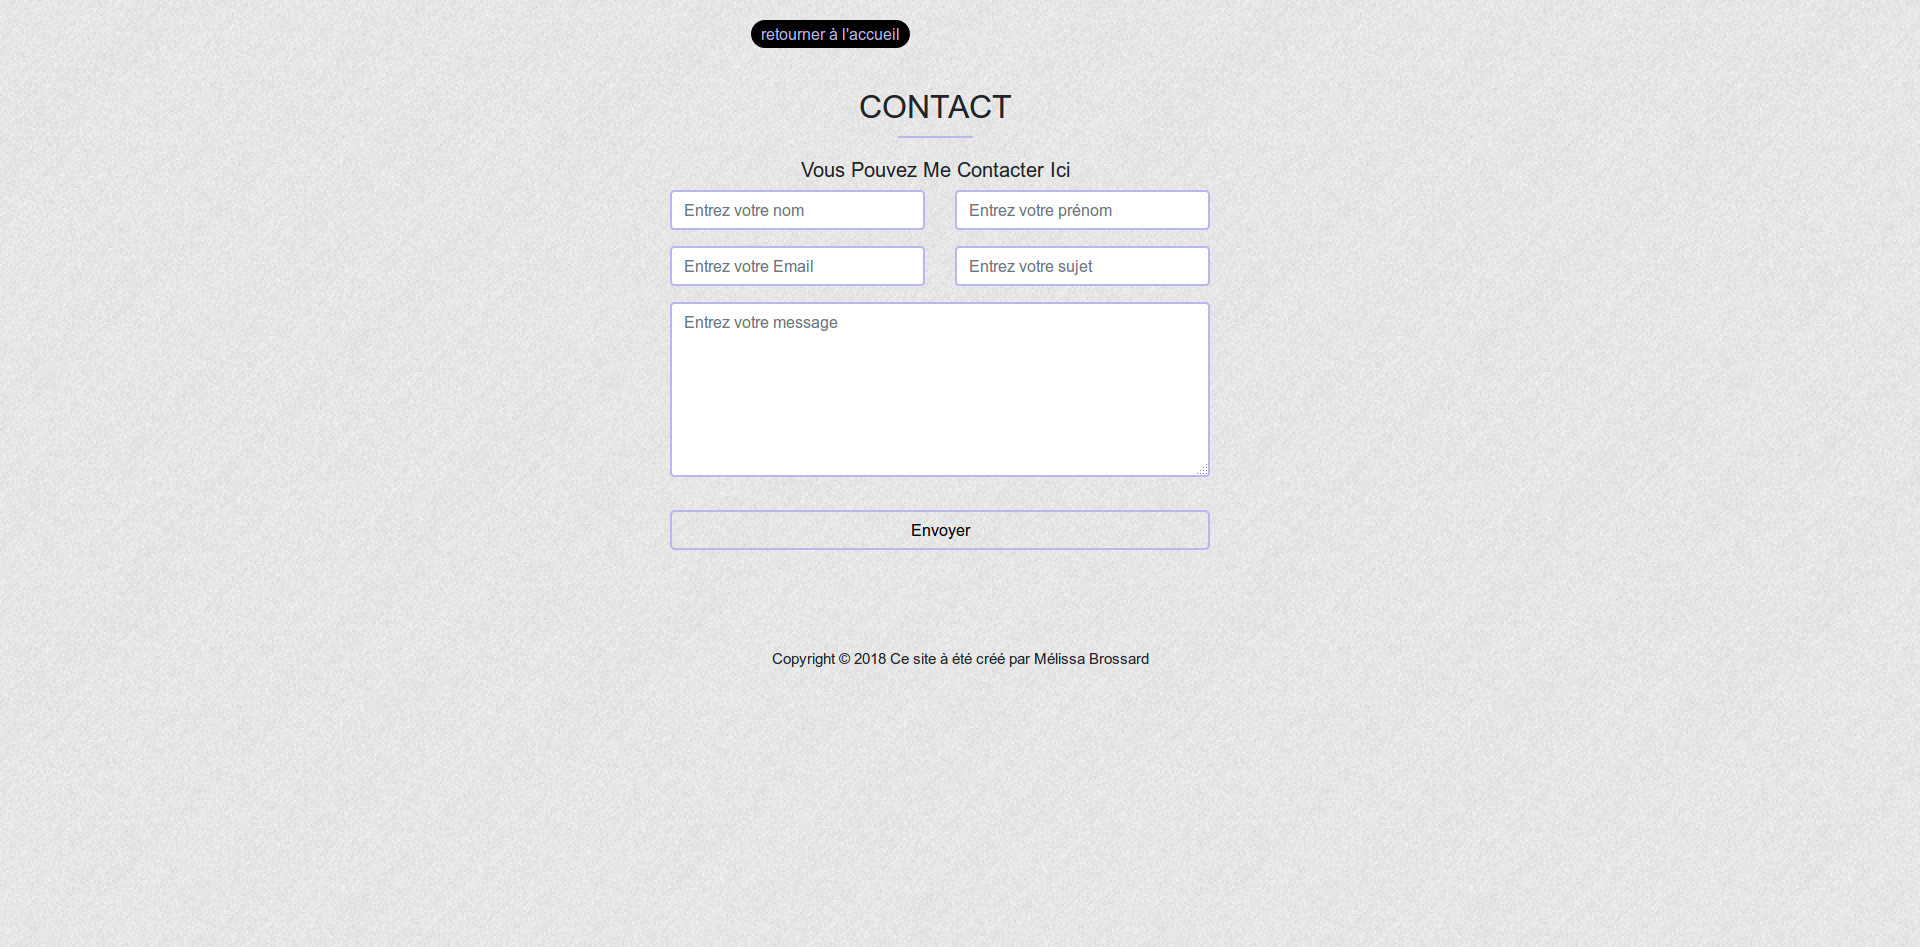
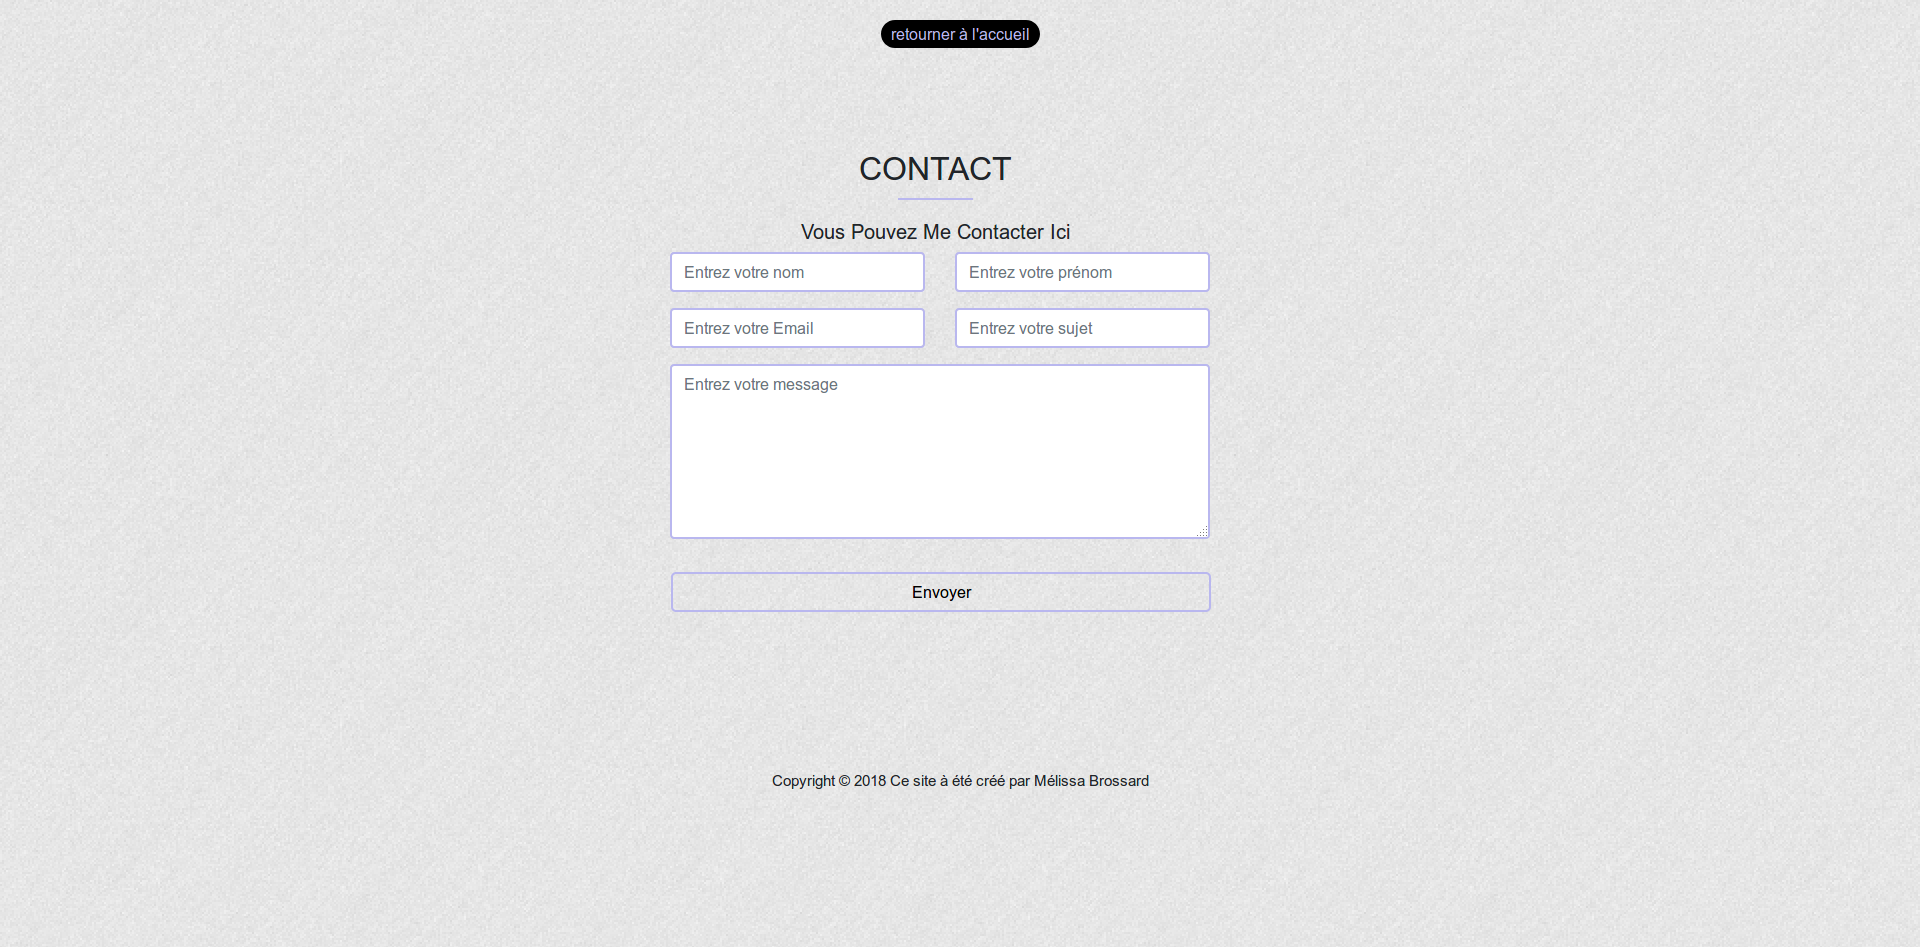
repositionnement de bouton "retour à l'acceuil" dans contact

diff --git a/Contact/contact.css b/Contact/contact.css
@@ -14,7 +14,7 @@ body{
 h2{
   text-transform: uppercase;
   text-align: center;
-  margin-top: 20px;
+  margin-top: 100px;
   margin-left: 20px;
 }
 h2::after{
@@ -57,9 +57,9 @@ p{
   color: black !important;
   border-radius: 5px !important;
   border: 2px solid rgb(185, 183, 239) !important;
-  margin-bottom: 30px;
+  margin-bottom: 50px;
   width: 540px;
-  margin-left: -13px;
+  margin-left: 8px;
   margin-top: 10px;
 }
 
@@ -74,7 +74,7 @@ p{
 }
 
 footer{
-  margin-top: 60px;
+  margin-top: 200px;
   text-align: center;
 }
 
@@ -87,7 +87,9 @@ button{
   border: 2px solid #000000;
   border-radius: 20px;
   cursor: pointer;
-  text-align: center;
+  position: relative;
+  left:50%;
+  transform: translate(-50%, 0);
 }
 
 

diff --git a/Contact/contact.html b/Contact/contact.html
@@ -11,12 +11,9 @@
   </head>
   <body>
     <header>
-      <div class="container">
-        <div class="row">
-          <div class="col-md-4">
-            <button type="button" name="Accueil"><a href="../accueil.html">retourner à l'accueil</a></button>
-          </div>
-        </div>
+      <div>
+
+        <button type="button" name="Accueil"><a href="../accueil.html">Retourner à l'accueil</a></button>
       </div>
     </header>
     <!--début formulaire-->

diff --git a/cv.html b/cv.html
@@ -14,7 +14,7 @@
     <header>
       <button type="button" name="Accueil"><a href="accueil.html">retourner à l'accueil</a></button>
       <div class="parcours">
-        <h1 class="titre">intégratrice web/</br> développeuse web</h1>
+        <h1 class="titre"><strong>intégratrice web/</br> développeuse web</strong></h1>
       </div>
     </header>
     <div id="mySidenav" class="sidenav">

diff --git a/cv.css b/cv.css
@@ -11,6 +11,7 @@ h1 {
   text-align: center;
   font-family: 'Overlock', cursive;
   text-transform: capitalize;
+  color: black;
 }
 
 header {
